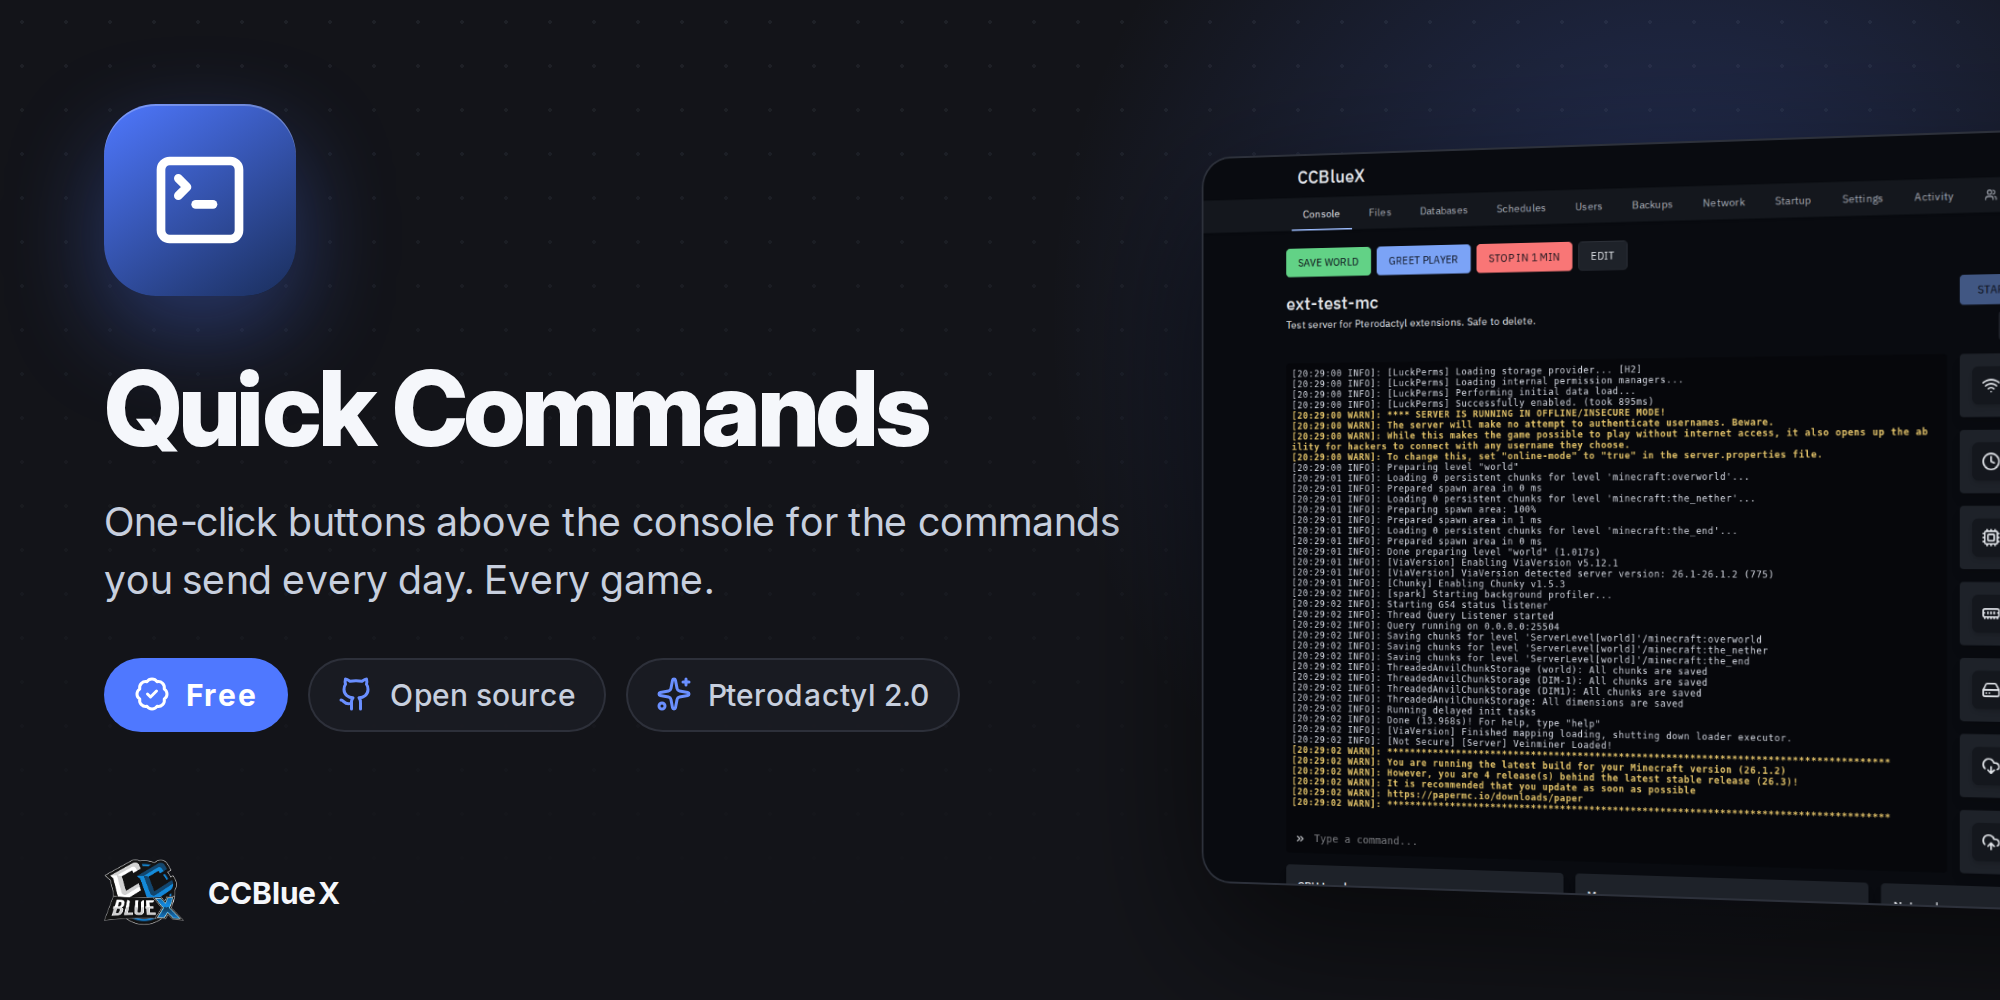
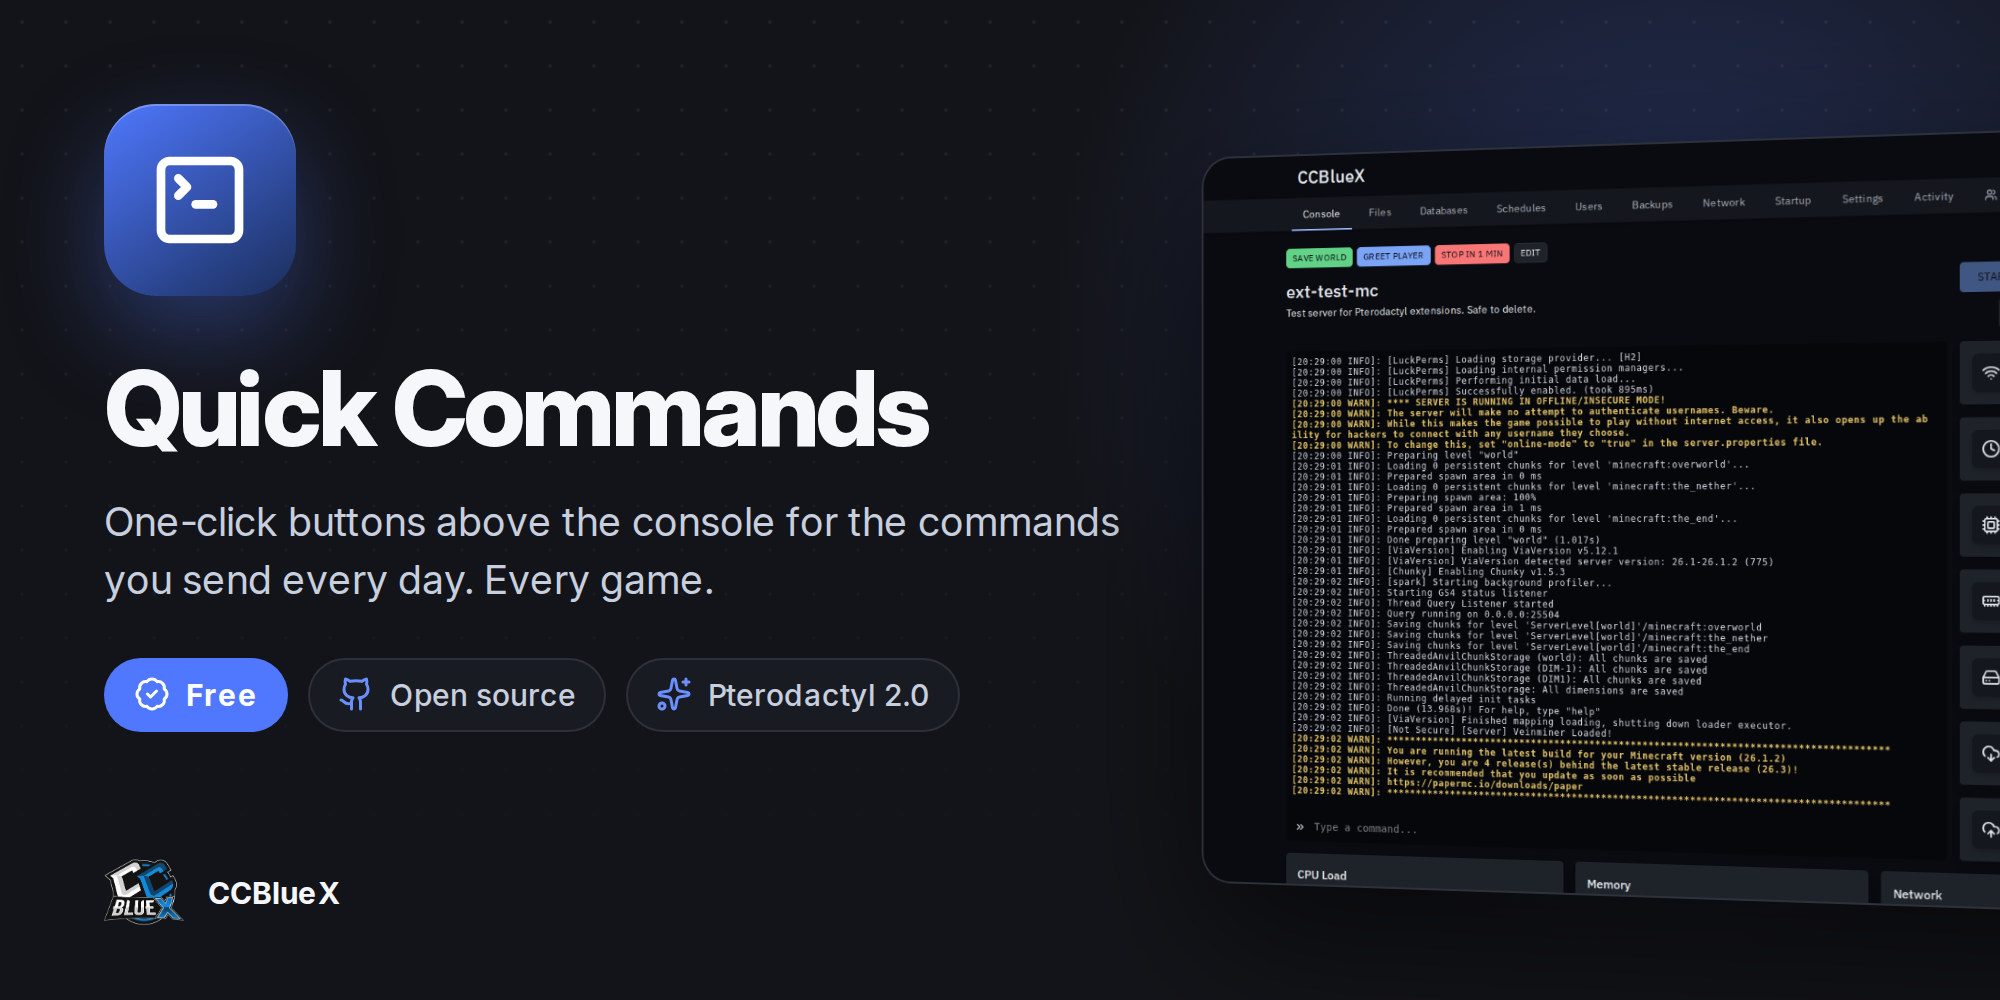
feat: make console buttons more compact

Changed region(s): [[0.62, 0.217, 1.0, 0.899], [0.961, 0.248, 1.0, 0.31]]

diff --git a/src/client/components/ConsoleButtons.tsx b/src/client/components/ConsoleButtons.tsx
@@ -39,14 +39,14 @@ export default function ConsoleButtons({ data: server }: { data: SdkServer }) {
     const own = buttons.data.buttons.filter((button) => !button.global);
 
     return (
-        <div className='qcmd:mb-4 qcmd:flex qcmd:flex-wrap qcmd:items-center qcmd:gap-2'>
+        <div className='qcmd:mb-3 qcmd:flex qcmd:flex-wrap qcmd:items-center qcmd:gap-1.5'>
             {buttons.data.buttons.map((button) => (
-                <Button key={button.id} size='small' color={button.color} isSecondary={button.color === 'grey'} disabled={running.isPending} onClick={() => click(button)} title={button.commands.join('\n')}>
+                <Button key={button.id} size='xsmall' color={button.color} isSecondary={button.color === 'grey'} disabled={running.isPending} onClick={() => click(button)} title={button.commands.join('\n')}>
                     {button.label}
                 </Button>
             ))}
             {buttons.data.can_manage && (
-                <Button.Text size='small' onClick={() => setManaging(true)}>
+                <Button.Text size='xsmall' onClick={() => setManaging(true)}>
                     {buttons.data.buttons.length === 0 ? 'Add quick command' : 'Edit'}
                 </Button.Text>
             )}
